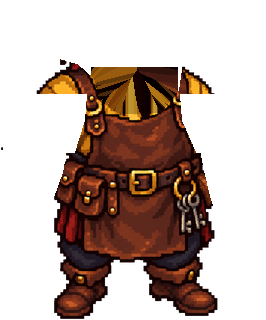
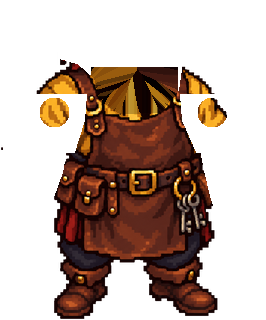
Fix torn shoulders, sanctuary threshold and hidden wall torches; rename BUGS.md to TASKS.md

Changed region(s): [[0.1504, 0.2812, 0.2707, 0.4062], [0.7218, 0.2812, 0.8722, 0.4062]]

diff --git a/live/dungeon.js b/live/dungeon.js
@@ -139,6 +139,13 @@
     for (const sc of secrets) for (const [x, y] of sc.front) used.add(key(x, y));
     const wx = (x) => x * TILE + TILE / 2, wy = (y) => y * TILE + TILE / 2 + 6;
     const enemies = [], chests = [], pots = [], traps = [], torches = [], decor = [], shrines = [], rugs = [];
+    // the top wall: what hangs on it (torches, sconces, banners, the shop sign) and the tall props standing against it (columns,
+    // statues, racks, shelves) must not overlap across their drawn widths, whichever came first: a prop would hide a sconce that
+    // works a secret, or a torch would stick out of a statue's head
+    const HANG = { wall: 14, banner: 18, shop_sign: 22 };
+    const hungAt = (px, ry, hw) => torches.some((t) => t.kind === 'wall' && !t.side && Math.abs(t.y - (ry * TILE - 26)) < TILE && Math.abs(t.x - px) < hw + HANG.wall)
+      || decor.some((d) => HANG[d.n] && Math.abs(d.y - ry * TILE) < 2 * TILE && Math.abs(d.x - px) < hw + HANG[d.n]);
+    const tallAt = (px, ry, hw) => decor.some((d) => d.solid && Math.abs(d.y - (ry * TILE + 22)) < 4 && Math.abs(d.x - px) < hw + half(d.n));
     // stairs / boss altar
     const sx = exitR.cx, sy = exitR.cy; for (let j = -1; j <= 1; j++) for (let i = -1; i <= 2; i++) used.add(key(sx + i, sy + j));
     const exit = { x: sx * TILE + TILE, y: sy * TILE + TILE / 2, tx: sx, ty: sy };
@@ -158,7 +165,7 @@
         for (let y = r.y; y < r.y + r.h; y++) for (let x = r.x; x < r.x + r.w; x++) if (at(x, y) === 1) { const v = lights.length ? reach(x, y) : 9; if (v > 1 && (!dark || v > dark[2])) dark = [x, y, v]; }
         if (!dark) break;
         const cand = [];
-        for (let x = r.x; x < r.x + r.w; x++) if (!at(x, r.y - 1) && at(x, r.y) === 1 && !doorway(x, r.y) && !torches.some((t) => t.kind === 'wall' && Math.abs(t.x - wx(x)) < 2 * TILE && Math.abs(t.y - r.y * TILE) < TILE) && !decor.some((d) => d.n === 'banner' && Math.abs(d.x - wx(x)) < 1.5 * TILE && Math.abs(d.y - r.y * TILE) < TILE))
+        for (let x = r.x; x < r.x + r.w; x++) if (!at(x, r.y - 1) && at(x, r.y) === 1 && !doorway(x, r.y) && !tallAt(wx(x), r.y, HANG.wall) && !torches.some((t) => t.kind === 'wall' && Math.abs(t.x - wx(x)) < 2 * TILE && Math.abs(t.y - r.y * TILE) < TILE) && !decor.some((d) => d.n === 'banner' && Math.abs(d.x - wx(x)) < 1.5 * TILE && Math.abs(d.y - r.y * TILE) < TILE))
           cand.push([x, r.y, 0, { x: wx(x), y: r.y * TILE - 26, kind: 'wall', r: r.id }]);
         for (let y = r.y + 1; y < r.y + r.h; y++) for (const [x, s] of [[r.x, -1], [r.x + r.w - 1, 1]]) if (!at(x + s, y) && free(x, y) && !doorway(x, y))
           cand.push([x, y, 0.5, { x: s < 0 ? x * TILE + 14 : (x + 1) * TILE - 14, y: y * TILE + 4, kind: 'wall', side: s, r: r.id, cell: [x, y] }]);
@@ -217,7 +224,7 @@
           take(lx, ly); shop.lanterns.push({ x: wx(lx), y: wy(ly) }); break; } }
       for (const L0 of shop.lanterns) decor.push({ x: L0.x, y: L0.y, n: 'shop_lantern', solid: 1, r: r.id });
       wall(-1, 'shop_armor'); wall(1, 'shop_weapons');
-      for (const x of [r.x + 1, r.x + r.w - 2]) if (!at(x, r.y - 1) && Math.abs(x - cx) > 3) torches.push({ x: x * TILE + TILE / 2, y: r.y * TILE - 26, kind: 'wall', r: r.id });
+      for (const x of [r.x + 1, r.x + r.w - 2]) if (!at(x, r.y - 1) && Math.abs(x - cx) > 3 && !tallAt(wx(x), r.y, HANG.wall)) torches.push({ x: x * TILE + TILE / 2, y: r.y * TILE - 26, kind: 'wall', r: r.id });
       along('shop_gold'); along('shop_crate'); lightRoom(r, shop.lanterns.map((q) => [q.x, q.y, LIGHT_R.wall]).concat([[shop.x, shop.y, LIGHT_R.fire]]), true); }
     if (!shop) return null;
     for (const r of rooms) { if (r.type === 'shop') continue;
@@ -242,7 +249,7 @@
       // the hoard's dressing: a statue each side of the rug against the back wall, vases about the room, now and then a small
       // pile of gold
       if (r.type === 'treasure') {
-        for (const side of [-1, 1]) for (const d of [3, 4, 2]) { const x = r.cx + side * d; if (x <= r.x || x >= r.x + r.w - 1 || at(x, r.y - 1) !== 0 || !free(x, r.y) || !free(x, r.y + 1) || !roomy(x, r.y, 'statue') || doorway(x, r.y)) continue;
+        for (const side of [-1, 1]) for (const d of [3, 4, 2]) { const x = r.cx + side * d; if (x <= r.x || x >= r.x + r.w - 1 || at(x, r.y - 1) !== 0 || !free(x, r.y) || !free(x, r.y + 1) || !roomy(x, r.y, 'statue') || doorway(x, r.y) || hungAt(wx(x), r.y, half('statue'))) continue;
           claim(x, r.y, 'statue'); used.add(key(x, r.y + 1)); decor.push({ x: wx(x), y: r.y * TILE + 22, n: 'statue', solid: 1, r: r.id }); break; }
         for (let i = 0, n = ri(2, 4); i < n; i++) { const kind = pick(['vase_a', 'vase_b', 'vase_c']), p = spot(r, 1, 0, kind); if (p) pots.push({ x: wx(p[0]), y: wy(p[1]), kind, hp: 1 }); }
         if (R() < 0.25) { const p = spot(r, 1, 0, 'goldpile'); if (p) pots.push({ x: wx(p[0]), y: wy(p[1]), kind: 'goldpile', hp: 1 }); } }
@@ -254,14 +261,14 @@
       // a heap of gold is a secret room's reward only (a rich one), never left lying in the open
       if (r.type === 'secret') { const p = spot(r, 1, 0, 'gold'); if (p) pots.push({ x: wx(p[0]), y: wy(p[1]), kind: 'gold', hp: 1, rich: 1 }); }
       // torches on the top wall face (cells above the room's first row that are rock), every 4–5 tiles
-      for (let x = r.x + 1 + ri(0, 1); x < r.x + r.w - 1; x += ri(3, 5)) if (!at(x, r.y - 1) && at(x, r.y)) torches.push({ x: x * TILE + TILE / 2, y: r.y * TILE - 26, kind: 'wall', r: r.id });
+      for (let x = r.x + 1 + ri(0, 1); x < r.x + r.w - 1; x += ri(3, 5)) if (!at(x, r.y - 1) && at(x, r.y) && !tallAt(wx(x), r.y, HANG.wall)) torches.push({ x: x * TILE + TILE / 2, y: r.y * TILE - 26, kind: 'wall', r: r.id });
       if (r.type !== 'start' && r.type !== 'secret' && R() < 0.5) { const p = spot(r, 1, 0, 'brazier'); if (p) torches.push({ x: wx(p[0]), y: wy(p[1]), kind: 'brazier', r: r.id }); }
       // decor
       for (let i = 0, n = ri(1, 3); i < n; i++) { const n2 = pick(['bones', 'candles', 'bones', 'table']), p = spot(r, 1, 0, n2 === 'table' && 'table'); if (p) decor.push(n2 === 'table' ? { x: wx(p[0]), y: wy(p[1]), n: n2, solid: 1, r: r.id } : { x: wx(p[0]), y: wy(p[1]), n: n2 }); }
-      for (let x = r.x + 2; x < r.x + r.w - 2; x += ri(5, 8)) if (!at(x, r.y - 1) && R() < 0.5 && !torches.some((t) => t.kind === 'wall' && !t.side && Math.abs(t.x - wx(x)) < 1.5 * TILE && Math.abs(t.y - r.y * TILE) < TILE)) decor.push({ x: x * TILE + TILE / 2, y: r.y * TILE - 2, n: 'banner', wall: 1 });
+      for (let x = r.x + 2; x < r.x + r.w - 2; x += ri(5, 8)) if (!at(x, r.y - 1) && R() < 0.5 && !tallAt(wx(x), r.y, HANG.banner) && !torches.some((t) => t.kind === 'wall' && !t.side && Math.abs(t.x - wx(x)) < 1.5 * TILE && Math.abs(t.y - r.y * TILE) < TILE)) decor.push({ x: x * TILE + TILE / 2, y: r.y * TILE - 2, n: 'banner', wall: 1 });
       // big biome props standing against the top wall (solid)
       for (let x = r.x + 1 + ri(0, 2); x < r.x + r.w - 1; x += ri(2, 5)) { const n = pick(D.BIOMES[zb].props);
-        if (R() < 0.3 || !free(x, r.y) || !free(x, r.y + 1) || !roomy(x, r.y, n) || !roomyCell(x, r.y + 1) || at(x, r.y - 1) !== 0 || doorway(x, r.y)) continue; claim(x, r.y, n); used.add(key(x, r.y + 1)); bulk.add(key(x, r.y + 1));
+        if (R() < 0.3 || !free(x, r.y) || !free(x, r.y + 1) || !roomy(x, r.y, n) || !roomyCell(x, r.y + 1) || at(x, r.y - 1) !== 0 || doorway(x, r.y) || hungAt(wx(x), r.y, half(n))) continue; claim(x, r.y, n); used.add(key(x, r.y + 1)); bulk.add(key(x, r.y + 1));
         decor.push({ x: wx(x), y: r.y * TILE + 22, n, solid: 1, r: r.id }); }
       for (let i = 0, n = ri(1, 3); i < n; i++) { const x = ri(r.x + 1, r.x + r.w - 2); if (!free(x, r.y) || at(x, r.y - 1) !== 0 || doorway(x, r.y)) continue; used.add(key(x, r.y)); decor.push({ x: wx(x) + ri(-6, 6), y: r.y * TILE + 20, n: 'candles' }); }
       if (r.zone === 'arcane') for (let i = 0; i < 2; i++) { const p = spot(r, 2, 0, 'crystal'); if (p) decor.push({ x: wx(p[0]), y: wy(p[1]), n: 'crystal', solid: 1, r: r.id }); }
@@ -274,8 +281,10 @@
     // mechanism, a secret falls back to a plain breakable wall
     const secCells = new Set(); for (const sc of secrets) { const r = rooms[sc.room]; for (const k of sc.hide) secCells.add(k); for (let y = r.y; y < r.y + r.h; y++) for (let x = r.x; x < r.x + r.w; x++) secCells.add(y * W + x); }
     secrets.forEach((q, i) => { const [fx, fy] = q.front[5], sh = rooms.find((o) => o.type === 'shop'), inR = (o, x, y) => x >= o.x - 1 && x <= o.x + o.w && y >= o.y - 1 && y <= o.y + o.h;
-      if (q.kind === 'banner' && torches.some((t) => t.kind === 'wall' && !t.side && Math.abs(t.x - q.x) < 2 * TILE && Math.abs(t.y - fy * TILE) < TILE)) q.kind = 'shelf';
-      if (q.kind === 'shelf' && !roomy(fx, fy, 'bookshelf', q.x)) q.kind = torches.some((t) => t.kind === 'wall' && !t.side && Math.abs(t.x - q.x) < 2 * TILE && Math.abs(t.y - fy * TILE) < TILE) ? 'crack' : 'banner';
+      const torchNear = torches.some((t) => t.kind === 'wall' && !t.side && Math.abs(t.x - q.x) < 2 * TILE && Math.abs(t.y - fy * TILE) < TILE);
+      if (q.kind === 'banner' && torchNear) q.kind = 'shelf';
+      if (q.kind === 'shelf' && (!roomy(fx, fy, 'bookshelf', q.x) || hungAt(q.x, fy, half('bookshelf')))) q.kind = torchNear ? 'crack' : 'banner';
+      if (q.kind === 'banner' && tallAt(q.x, fy, HANG.banner)) q.kind = 'crack';
       if (q.kind === 'banner') { for (let k = decor.length - 1; k >= 0; k--) if (decor[k].n === 'banner' && Math.abs(decor[k].x - q.x) < 3 * TILE && Math.abs(decor[k].y - (fy * TILE - 2)) < TILE) decor.splice(k, 1);
         decor.push({ x: q.x, y: fy * TILE - 2, n: 'banner', wall: 1, secret: i }); }
       if (q.kind === 'shelf') { claim(fx, fy, 'bookshelf', q.x); decor.push({ x: q.x, y: fy * TILE + 22, n: 'bookshelf', solid: 1, secret: i }); }

diff --git a/live/rigs.js b/live/rigs.js
@@ -1,1 +1,1 @@
-window.RIGS = {"hero": {"w": 188, "h": 360, "face": "right", "hipL": [49.54527412980827, 219.5958375757157], "kneeL": [49.234645451878436, 287.31288936441916], "ankleL": [55.44721901047508, 330.4902755966659], "footL": [55.44721901047508, 359.0681139662105], "toeL": [97.69271920893229, 359.0681139662105], "heelL": [34.945726267106146, 359.0681139662105], "shL": [48.02008732117279, 102.19233627875172], "elbowL": [45.84568657566396, 162.1436711192094], "handL": [50.349802405646535, 223.64814934931618], "hipR": [114.77729649507307, 219.5958375757157], "kneeR": [114.46666781714323, 287.31288936441916], "ankleR": [120.67924137573989, 330.4902755966659], "footR": [120.67924137573989, 359.0681139662105], "toeR": [162.9247415741971, 359.0681139662105], "heelR": [100.17774863237095, 359.0681139662105], "shR": [162.8967849931834, 102.19233627875172], "elbowR": [160.72238424767457, 162.1436711192094], "handR": [165.22650007765714, 223.64814934931618], "crotch": 220, "gap": 82.16128531244067, "top": [116.0, 1.0], "head": [113.89201570680628, 27.229712041884817], "parts": ["body", "farmL", "farmR", "footL", "footR", "shinL", "shinR", "thighL", "thighR", "uarmL", "uarmR"]}, "skeleton": {"w": 353, "h": 320, "crotch": 218, "gap": 231.0, "hipL": [144.5, 182.0], "hipR": [247.5, 186.0], "footL": [128.15058823529412, 298.0], "footR": [279.72265625, 316.0], "shL": [134.0, 72.0], "handL": [95.0, 176.0], "shR": [244.0, 92.0], "handR": [298.0, 160.0], "kneeL": [144.5, 220.0], "ankleL": [148.5, 275.0], "toeL": [152.0, 298.0], "heelL": [108.0, 298.0], "kneeR": [258.5, 249.0], "ankleR": [277.5, 293.0], "toeR": [301.0, 316.0], "heelR": [261.0, 316.0], "elbowL": [127.0, 133.0], "elbowR": [262.0, 124.0], "top": [175.0, 3.0], "head": [174.06973795435334, 25.272189349112427], "face": "right", "parts": ["body", "farmL", "farmR", "footL", "footR", "shinL", "shinR", "skull", "thighL", "thighR", "uarmL", "uarmR"], "bladeL": -2.314, "skull": [175.0, 90.0], "skullTip": [164.0, 3.0]}, "goblin": {"w": 387, "h": 320, "crotch": 225, "gap": 250.0, "hipL": [170.01882352941178, 192.0], "hipR": [270.2851851851852, 195.0], "footL": [151.32835820895522, 290.0], "footR": [303.6819852941176, 315.0], "shL": [152.0, 115.0], "handL": [95.0, 188.0], "shR": [268.0, 100.0], "handR": [345.0, 200.0], "kneeL": [164.5, 236.0], "ankleL": [160.5, 267.0], "toeL": [176.0, 290.0], "heelL": [122.0, 290.0], "kneeR": [287.5, 249.0], "ankleR": [303.5, 292.0], "toeR": [335.0, 315.0], "heelR": [272.0, 315.0], "elbowL": [112.0, 148.0], "elbowR": [308.0, 138.0], "top": [204.5, 4.0], "head": [200.5038215244784, 30.02726709357571], "face": "right", "parts": ["body", "earL", "earR", "farmL", "farmR", "footL", "footR", "shinL", "shinR", "thighL", "thighR", "uarmL", "uarmR"], "bladeL": -2.628, "earL": [161.0, 54.0], "earR": [257.0, 60.0], "earLTip": [97.0, 19.0], "earRTip": [315.0, 34.0]}, "brute": {"w": 287, "h": 320, "crotch": 225, "gap": 159.5, "hipL": [86.81859070464768, 175.0], "hipR": [195.0, 178.0], "footL": [63.099756690997566, 310.0], "footR": [235.1464882943144, 317.0], "shL": [60.0, 95.0], "handL": [28.0, 205.0], "shR": [228.0, 100.0], "handR": [250.0, 205.0], "kneeL": [86.5, 249.0], "ankleL": [74.5, 287.0], "toeL": [89.0, 310.0], "heelL": [29.0, 310.0], "kneeR": [212.3265306122449, 256.0], "ankleR": [233.0, 294.0], "toeR": [267.0, 317.0], "heelR": [209.0, 317.0], "elbowL": [35.0, 150.0], "elbowR": [255.0, 150.0], "top": [114.5, 2.0], "head": [134.06710796621775, 28.335996347865784], "face": "right", "parts": ["body", "farmL", "farmR", "footL", "footR", "shinL", "shinR", "thighL", "thighR", "uarmL", "uarmR"]}, "cultist": {"w": 248, "h": 320, "face": "right", "parts": ["body", "farmL", "uarmR", "farmR"], "shL": [92.0, 108.0], "handL": [50.0, 130.0], "shR": [170.0, 110.0], "elbowR": [200.0, 124.0], "handR": [226.0, 116.0], "top": [47.0, 2.0], "foot": 317.0, "gap": 113.6796989672013}, "spider": {"w": 487, "h": 720, "sockets": [[55, 399], [55, 494], [65, 569], [100, 641], [410, 399], [410, 494], [400, 569], [375, 641]], "legA": {"w": 295, "h": 351, "root": [30, 93], "end": [310, 68]}, "legB": {"w": 242, "h": 351, "root": [15, 68], "end": [225, 343]}}, "en_ghost": {"bones": [[190.0, 198.0], [266.0, 148.0]], "tips": [[203.0, 393.0], [328.0, 248.0]], "w": 361, "h": 409}, "merchant": {"w": 266, "h": 320, "face": "right", "parts": ["body", "uarmL", "farmL", "uarmR", "farmR", "head"], "shL": [52.0, 100.0], "elbowL": [30.0, 148.0], "handL": [26.0, 206.0], "shR": [214.0, 100.0], "elbowR": [236.0, 148.0], "handR": [240.0, 206.0], "neck": [134.0, 96.0], "top": [123.5, 1.0], "foot": 318.0, "gap": 128.20460920630435}};
+window.RIGS = {"hero": {"w": 188, "h": 360, "face": "right", "hipL": [49.54527412980827, 219.5958375757157], "kneeL": [49.234645451878436, 287.31288936441916], "ankleL": [55.44721901047508, 330.4902755966659], "footL": [55.44721901047508, 359.0681139662105], "toeL": [97.69271920893229, 359.0681139662105], "heelL": [34.945726267106146, 359.0681139662105], "shL": [48.02008732117279, 102.19233627875172], "elbowL": [45.84568657566396, 162.1436711192094], "handL": [50.349802405646535, 223.64814934931618], "hipR": [114.77729649507307, 219.5958375757157], "kneeR": [114.46666781714323, 287.31288936441916], "ankleR": [120.67924137573989, 330.4902755966659], "footR": [120.67924137573989, 359.0681139662105], "toeR": [162.9247415741971, 359.0681139662105], "heelR": [100.17774863237095, 359.0681139662105], "shR": [162.8967849931834, 102.19233627875172], "elbowR": [160.72238424767457, 162.1436711192094], "handR": [165.22650007765714, 223.64814934931618], "crotch": 220, "gap": 82.16128531244067, "top": [116.0, 1.0], "head": [113.89201570680628, 27.229712041884817], "parts": ["body", "farmL", "farmR", "footL", "footR", "shinL", "shinR", "thighL", "thighR", "uarmL", "uarmR"]}, "skeleton": {"w": 353, "h": 320, "crotch": 218, "gap": 231.0, "hipL": [144.5, 182.0], "hipR": [247.5, 186.0], "footL": [128.15058823529412, 298.0], "footR": [279.72265625, 316.0], "shL": [134.0, 72.0], "handL": [95.0, 176.0], "shR": [244.0, 92.0], "handR": [298.0, 160.0], "kneeL": [144.5, 220.0], "ankleL": [148.5, 275.0], "toeL": [152.0, 298.0], "heelL": [108.0, 298.0], "kneeR": [258.5, 249.0], "ankleR": [277.5, 293.0], "toeR": [301.0, 316.0], "heelR": [261.0, 316.0], "elbowL": [127.0, 133.0], "elbowR": [262.0, 124.0], "top": [175.0, 3.0], "head": [174.06973795435334, 25.272189349112427], "face": "right", "parts": ["body", "farmL", "farmR", "footL", "footR", "shinL", "shinR", "skull", "thighL", "thighR", "uarmL", "uarmR"], "bladeL": -2.314, "skull": [175.0, 90.0], "skullTip": [164.0, 3.0]}, "goblin": {"w": 387, "h": 320, "crotch": 225, "gap": 250.0, "hipL": [170.01882352941178, 192.0], "hipR": [270.2851851851852, 195.0], "footL": [151.32835820895522, 290.0], "footR": [303.6819852941176, 315.0], "shL": [152.0, 115.0], "handL": [95.0, 188.0], "shR": [268.0, 100.0], "handR": [345.0, 200.0], "kneeL": [164.5, 236.0], "ankleL": [160.5, 267.0], "toeL": [176.0, 290.0], "heelL": [122.0, 290.0], "kneeR": [287.5, 249.0], "ankleR": [303.5, 292.0], "toeR": [335.0, 315.0], "heelR": [272.0, 315.0], "elbowL": [112.0, 148.0], "elbowR": [308.0, 138.0], "top": [204.5, 4.0], "head": [200.5038215244784, 30.02726709357571], "face": "right", "parts": ["body", "earL", "earR", "farmL", "farmR", "footL", "footR", "shinL", "shinR", "thighL", "thighR", "uarmL", "uarmR"], "bladeL": -2.628, "earL": [161.0, 54.0], "earLTip": [97.0, 19.0], "earR": [257.0, 60.0], "earRTip": [315.0, 34.0]}, "brute": {"w": 287, "h": 320, "crotch": 225, "gap": 159.5, "hipL": [86.81859070464768, 175.0], "hipR": [195.0, 178.0], "footL": [63.099756690997566, 310.0], "footR": [235.1464882943144, 317.0], "shL": [60.0, 95.0], "handL": [28.0, 205.0], "shR": [228.0, 100.0], "handR": [250.0, 205.0], "kneeL": [86.5, 249.0], "ankleL": [74.5, 287.0], "toeL": [89.0, 310.0], "heelL": [29.0, 310.0], "kneeR": [212.3265306122449, 256.0], "ankleR": [233.0, 294.0], "toeR": [267.0, 317.0], "heelR": [209.0, 317.0], "elbowL": [35.0, 150.0], "elbowR": [255.0, 150.0], "top": [114.5, 2.0], "head": [134.06710796621775, 28.335996347865784], "face": "right", "parts": ["body", "farmL", "farmR", "footL", "footR", "shinL", "shinR", "thighL", "thighR", "uarmL", "uarmR"]}, "cultist": {"w": 248, "h": 320, "face": "right", "parts": ["body", "farmL", "uarmR", "farmR"], "shL": [92.0, 108.0], "handL": [50.0, 130.0], "shR": [170.0, 110.0], "elbowR": [200.0, 124.0], "handR": [226.0, 116.0], "top": [47.0, 2.0], "foot": 317.0, "gap": 113.6796989672013}, "spider": {"w": 487, "h": 720, "sockets": [[55, 399], [55, 494], [65, 569], [100, 641], [410, 399], [410, 494], [400, 569], [375, 641]], "legA": {"w": 295, "h": 351, "root": [30, 93], "end": [310, 68]}, "legB": {"w": 242, "h": 351, "root": [15, 68], "end": [225, 343]}}, "en_ghost": {"bones": [[190.0, 198.0], [266.0, 148.0]], "tips": [[203.0, 393.0], [328.0, 248.0]], "w": 361, "h": 409}, "merchant": {"w": 266, "h": 320, "face": "right", "parts": ["body", "uarmL", "farmL", "uarmR", "farmR", "head"], "shL": [54.0, 112.0], "elbowL": [30.0, 148.0], "handL": [26.0, 206.0], "shR": [212.0, 112.0], "elbowR": [236.0, 148.0], "handR": [240.0, 206.0], "neck": [134.0, 96.0], "top": [123.5, 1.0], "foot": 318.0, "gap": 128.20460920630435}};

diff --git a/live/sim.js b/live/sim.js
@@ -183,7 +183,9 @@
   const cell = (m, tx, ty) => (tx < 0 || ty < 0 || tx >= m.W || ty >= m.H ? 0 : m.cells[ty * m.W + tx]);
   const inRoom1 = (r, tx, ty) => tx >= r.x - 1 && tx <= r.x + r.w && ty >= r.y - 1 && ty <= r.y + r.h;
   // the sanctuary and the merchant's warded shop (plus one cell): monsters never set foot in them, their bolts die at the line
-  const inStart = (m, tx, ty) => inRoom1(m.rooms[m.start], tx, ty) || (!!m.shop && inRoom1(m.rooms[m.shop.room], tx, ty));
+  // the sanctuary is the safe room itself: a ring around it would take in half of a corridor that runs along its side
+  const inRoom0 = (r, tx, ty) => tx >= r.x && tx < r.x + r.w && ty >= r.y && ty < r.y + r.h;
+  const inStart = (m, tx, ty) => inRoom0(m.rooms[m.start], tx, ty) || (!!m.shop && inRoom1(m.rooms[m.shop.room], tx, ty));
   // lava (3) can be entered — it burns — by the hero and by a monster knocked into it; a monster never walks into it on its own
   const solidAt = (m, x, y, mon, lavaOk) => { const tx = Math.floor(x / TILE), ty = Math.floor(y / TILE), c = cell(m, tx, ty); return c === 3 ? !lavaOk : c !== 1 || (mon && inStart(m, tx, ty)); };
   const onLava = (m, o) => cell(m, Math.floor(o.x / TILE), Math.floor(o.y / TILE)) === 3;
@@ -937,6 +939,11 @@
         const w2 = (n) => (D.PROP_W[n] || 0) / 2;
         for (let i = 0; i < big.length; i++) for (let j = i + 1; j < big.length; j++) { const [ax, ay, an] = big[i], [bx, by, bn] = big[j]; if (an.startsWith('shop_') || bn.startsWith('shop_')) continue;
           if (Math.abs(Math.floor(ay / TILE) - Math.floor(by / TILE)) <= 1 && Math.abs(ax - bx) < w2(an) + w2(bn) + 4) out.push(`seed ${seed} f${f}: ${an} draws over ${bn} at ${Math.round(ax)},${Math.round(ay)}`); }
+        // nothing hung on a top wall (torch, sconce, banner, sign) hides behind a tall prop standing against that wall
+        const hung = m.torches.filter((t) => t.kind === 'wall' && !t.side).map((t) => [t.x, Math.round((t.y + 26) / TILE), 14, t.lever !== undefined ? 'sconce' : 'torch'])
+          .concat(m.decor.filter((d) => d.n === 'banner' || d.n === 'shop_sign').map((d) => [d.x, Math.round((d.y + (d.n === 'banner' ? 2 : 34)) / TILE), d.n === 'banner' ? 18 : 22, d.n]));
+        for (const d of m.decor) { if (!d.solid || (d.y - 22) % TILE) continue; const ry = (d.y - 22) / TILE;
+          for (const [hx, hy, hw, hn] of hung) if (hy === ry && Math.abs(hx - d.x) < hw + (D.PROP_W[d.n] || 53) / 2) out.push(`seed ${seed} f${f}: ${d.n} hides a ${hn} on the wall at ${Math.round(hx)},${hy * TILE}`); }
         for (const p of m.pots) if (p.kind === 'gold' && !(m.rooms[DG.roomAt(m, p.x, p.y)] || {}).type?.startsWith('secret')) out.push(`seed ${seed} f${f}: a heap of gold outside a secret room`);
         for (const r of m.rooms) { const n = m.chests.filter((c) => DG.roomAt(m, c.x, c.y) === r.id).length; if (n > Math.min(2, 1 + Math.floor(r.w * r.h / 30))) out.push(`seed ${seed} f${f}: ${n} chests in a ${r.w}×${r.h} room`); } }
       // a cobweb hangs only in a room's top corner, its spun corner against the two walls (mirrored on the right)

diff --git a/live/scene.js b/live/scene.js
@@ -56,8 +56,8 @@ void main(){ vec2 q = v_uv * 2.0 - 1.0; float r = length(q), a = atan(q.y, q.x);
   // the safe zone is the start room plus one cell (SIM's inStart): its edge is visible only where floor crosses it
   const SANCT = { key: null, edges: [] };
   const sanctEdges = (m) => { const key = m.seed + ':' + m.floor; if (SANCT.key === key) return SANCT.edges; SANCT.key = key; const out = SANCT.edges = [];
-    const r = m.rooms[m.start], inZ = (x, y) => x >= r.x - 1 && x <= r.x + r.w && y >= r.y - 1 && y <= r.y + r.h, T = TILE;
-    for (let y = r.y - 1; y <= r.y + r.h; y++) for (let x = r.x - 1; x <= r.x + r.w; x++) { if (SIM.cell(m, x, y) !== 1) continue;
+    const r = m.rooms[m.start], inZ = (x, y) => x >= r.x && x < r.x + r.w && y >= r.y && y < r.y + r.h, T = TILE;   // the room itself, as the sim's ward
+    for (let y = r.y; y < r.y + r.h; y++) for (let x = r.x; x < r.x + r.w; x++) { if (SIM.cell(m, x, y) !== 1) continue;
       if (!inZ(x + 1, y) && SIM.cell(m, x + 1, y) === 1) out.push([(x + 1) * T - 2, y * T, 4, T]); if (!inZ(x - 1, y) && SIM.cell(m, x - 1, y) === 1) out.push([x * T - 2, y * T, 4, T]);
       if (!inZ(x, y + 1) && SIM.cell(m, x, y + 1) === 1) out.push([x * T, (y + 1) * T - 2, T, 4]); if (!inZ(x, y - 1) && SIM.cell(m, x, y - 1) === 1) out.push([x * T, y * T - 2, T, 4]); }
     // one sill per doorway: merge edge cells that continue each other
@@ -833,6 +833,9 @@ void main(){ vec2 q = v_uv * 2.0 - 1.0; float r = length(q), a = atan(q.y, q.x);
       const h = R.hero; h.x = (r.x + r.w / 2) * TILE; h.y = (r.y + r.h - 1) * TILE; R.en = []; R.msg = null; R.seen = R.seen.map(() => 1); R.cam = [h.x - VW / 2, r.y * TILE - VH / 2 + 40]; return S; } };
     for (const [nm, tall] of [['wallprops', 0], ['wallprops_tall', 1]]) { const S = wallS(tall); if (S) states.push([nm, S]); }
     states.push(['sanct', play((S) => { const R = S.run, r = R.map.rooms[R.map.start], h = R.hero; R.en = []; R.msg = null; R.seen = R.seen.map(() => 1);
+      h.x = (r.x + 1.5) * TILE; h.y = (r.y + r.h - 1.5) * TILE; R.cam = [(r.x + r.w / 2) * TILE - VW / 2, (r.y + r.h / 2) * TILE - VH / 2]; })]);
+    // a corridor running along the safe room's side (seed 1, floor 1): the threshold follows the room's edge, not the corridor's middle
+    states.push(['sanct_side', play((S) => { S.run = SIM.newRun(S, 'campaign', 1); const R = S.run, r = R.map.rooms[R.map.start], h = R.hero; R.en = []; R.msg = null; R.seen = R.seen.map(() => 1);
       h.x = (r.x + 1.5) * TILE; h.y = (r.y + r.h - 1.5) * TILE; R.cam = [(r.x + r.w / 2) * TILE - VW / 2, (r.y + r.h / 2) * TILE - VH / 2]; })]);
     // the shop: the room from its doorway side, the hero at the counter (the prompt), and the trade screen at its worst
     const shopS = (prep) => play((S) => { const R = S.run, sh = R.map.shop, r = R.map.rooms[sh.room], h = R.hero; R.en = []; R.msg = null; R.seen = R.seen.map(() => 1); R.rseen = R.rseen.map(() => 1);

diff --git a/tools/jointgap.py b/tools/jointgap.py
@@ -1,0 +1,21 @@
+# a limb must not tear away from the body at its joint: turn the part about its pivot through its working range and check that
+# what is covered around the joint at rest (body ∪ part, within R rig px) stays covered (body ∪ turned part)
+#   python3 tools/jointgap.py NAME "PART:PIVOTKEY:R:A0,A1" ...   (angles in rig rad, positive clockwise; exit 2 on a gap)
+import json, re, sys; import numpy as np; from PIL import Image
+name = sys.argv[1]; RG = json.loads(re.sub(r'^window\.RIGS = |;\s*$', '', open('live/rigs.js').read().strip()))[name]
+op = lambda n: np.array(Image.open(f'art/gen/{name}__{n}.png').convert('RGBA'))[..., 3] > 60
+B, bad = op('body'), 0
+for arg in sys.argv[2:]:
+    part, key, R, rng = arg.split(':'); px, py = RG[key]; R = float(R); a0, a1 = map(float, rng.split(','))
+    P = op(part); yy, xx = np.mgrid[:B.shape[0], :B.shape[1]]; near = np.hypot(xx - px, yy - py) < R; want = near & (B | P)
+    worst, at = 0, 0
+    for a in np.linspace(a0, a1, 25):
+        # inverse map: a pixel is covered by the turned part if turning it back by −a lands on the part
+        c, s = np.cos(-a), np.sin(-a); sx = px + (xx - px) * c - (yy - py) * s; sy = py + (xx - px) * s + (yy - py) * c
+        ix, iy = np.round(sx).astype(int), np.round(sy).astype(int); ok = (ix >= 0) & (iy >= 0) & (ix < B.shape[1]) & (iy < B.shape[0])
+        T = np.zeros_like(B); T[ok] = P[iy[ok], ix[ok]]
+        gap = int((want & ~(B | T)).sum())
+        if gap > worst: worst, at = gap, a
+    lim = max(4, int(0.03 * want.sum())); fail = worst > lim; bad += fail
+    print(f"{'FAIL' if fail else 'ok  '} {name} {part}: worst gap {worst} px at {at:+.2f} rad (limit {lim}, joint area {int(want.sum())} px)")
+sys.exit(2 if bad else 0)

diff --git a/tools/jointcap.py b/tools/jointcap.py
@@ -1,0 +1,11 @@
+# paint a joint cap onto a rig's body: the part's own pixels within a radius of its pivot, so a limb raised far from its rest
+# turns over a round shoulder instead of opening a gap where the cut took the shoulder away
+#   python3 tools/jointcap.py NAME "PART:PIVOTKEY:R" ...   (e.g. "uarmR:shR:16", radius in rig px)
+import json, re, sys; import numpy as np; from PIL import Image
+name = sys.argv[1]; RG = json.loads(re.sub(r'^window\.RIGS = |;\s*$', '', open('live/rigs.js').read().strip()))[name]
+B = np.array(Image.open(f'art/gen/{name}__body.png').convert('RGBA'))
+for arg in sys.argv[2:]:
+    part, key, r = arg.split(':'); px, py = RG[key]; P = np.array(Image.open(f'art/gen/{name}__{part}.png').convert('RGBA'))
+    yy, xx = np.mgrid[:B.shape[0], :B.shape[1]]; m = (np.hypot(xx - px, yy - py) < float(r)) & (P[..., 3] > 60)
+    B[m] = P[m]; print(part, 'cap', int(m.sum()), 'px at', key, (px, py))
+Image.fromarray(B).save(f'art/gen/{name}__body.png')

diff --git a/tools/herofix.py b/tools/herofix.py
@@ -1,4 +1,4 @@
-# post-fixes for hero rig parts (BUGS 24, 30); always rebuilds from art/old/herofix/ so it can be re-run
+# post-fixes for hero rig parts (TASKS 24, 30); always rebuilds from art/old/herofix/ so it can be re-run
 import numpy as np; from PIL import Image; from scipy import ndimage as nd
 SRC, DST = 'art/old/herofix', 'art/gen'
 load = lambda n: np.array(Image.open(f'{SRC}/{n}.png').convert('RGBA')).astype(float)

diff --git a/tools/cleanfix.py b/tools/cleanfix.py
@@ -1,4 +1,4 @@
-# post-fixes for BUGS 32; rebuilds from art/old/cleanfix/ so it can be re-run
+# post-fixes for TASKS 32; rebuilds from art/old/cleanfix/ so it can be re-run
 import numpy as np; from PIL import Image; from scipy import ndimage as nd
 SRC, DST = 'art/old/cleanfix', 'art/gen'
 load = lambda n: np.array(Image.open(f'{SRC}/{n}.png').convert('RGBA')).astype(float)

diff --git a/TASKS.md b/TASKS.md
@@ -1,6 +1,6 @@
-# Баги и замечания — «Глубины Крипты»
+# Задачи — «Глубины Крипты»
 
-Статусы: ✅ исправлено · ⏳ открыто · 🔁 частично.
+Статусы: ✅ сделано · ⏳ открыто · 🔁 частично.
 Источник: **[И]** — нашёл игрок; **[А]** ассеты, **[С]** сверка с концептом, **[Г]** геймплей, **[М]** анимация — независимые критики, раунд 1 (полные отчёты в `study/critique/*_r1.md`).
 
 ## Найдено игроком
@@ -126,6 +126,18 @@
 99. ✅ **[И]** Снова лут не отображается: подсветка показывает предмет (зелье здоровья) рядом с открытым сундуком, а на экране его нет. → Два случая. (1) Правило 94 считало закрытыми только клетку пропа и ряд за ним, а не настоящий спрайт: открытый сундук хорошего тира шириной ~61 px закрывал предмет на соседней клетке. Теперь у каждого твёрдого пропа прямоугольник спрайта по его ширине и высоте (`PROP_W`, `PROP_H`), и предмет, лежащий за ним в этом прямоугольнике, перепрыгивает (`propBoxes`, `behindProp`); уже лежащие в сохранении предметы проверяются заново (`DROP_REST`). В тесной тайной комнате, где своих клеток не хватает, предмет ложится рядом с другим, но на виду. (2) Предметы из сундука ложились друг на друга (плащ закрывал зелье) — теперь иконки держатся порознь, с учётом места приземления летящих. Плюс у каждого предмета на полу свой маленький белый свет: в зелёном свете склепа красное зелье читалось бурым пятном. Новый инструмент `tools/lootvis.mjs`: на 24 этажах открывает все тайники и сундуки и рендерит каждый предмет с иконкой и без — 358 из 358 видны (без исправления — 15 спрятанных).
 
 104. ⏳ **[И]** Соседнюю комнату видно сквозь стену, хотя прохода туда ещё не было. На скриншоте игрока (этаж 2, подземелье): герой в маленькой комнате, а комната слева (скелет, стойка с оружием, бочка) и полки лавки внизу кадра нарисованы с полом, пропсами и монстром, хотя на миникарте они ещё не открыты. Причина: туман войны открывает прямоугольник 17×13 клеток вокруг героя без проверки прямой видимости (`sim.js`, `R.seen` в шаге героя). Нужно: комната открывается, только когда в неё есть видимость через проём (или она уже исследована); за глухой стеной — темнота. QA: герой у тонкой стены между двумя комнатами без прохода.
+
+105. ⏳ **[И]** Переработать лаву: сейчас она выглядит как простой квадрат с глючной текстурой. Нужно правильно нарисовать переход с поверхности (пола) в лаву: берег — оплавленный тёмный камень с остывающей коркой и светящейся кромкой, не прямоугольная граница по клеткам; текстура самой лавы без артефактов и швов, с медленным течением. QA: стык лавы с полом (прямой край, внешний и внутренний углы), крупный план поверхности.
+
+106. ⏳ **[И]** Добавить воду: лужи, ручьи или затопленные участки в комнатах, со своим берегом (переход с пола в воду, как у лавы в 105), отражением света факелов и рябью. Решить, как вода влияет на игру (проходима ли, замедляет ли, гасит ли горение), и где она появляется в генераторе этажей.
+
+107. ✅ **[И]** Торговец, махая рукой в приветствии, отрывает руку от тела. → `robecut` вырезал из тела всё плечо, а рука вращалась вокруг точки на верхнем краю рукава: при подъёме на 1,9 рад внутренний край рукава уходил от тела, и между ними открывалась щель. Центры плеч перенесены в сустав (`sh` в `tools/rig_merchant.sh`), на теле оставлена круглая «шапка» плеча из пикселей самого рукава (`tools/jointcap.py`), рука поворачивается поверх неё. Новая проверка `tools/jointgap.py`: деталь поворачивается вокруг сустава во всём рабочем диапазоне (диапазоны сняты с QA-переходов), и всё, что было закрыто в радиусе 12 px вокруг сустава, должно оставаться закрытым; у старого рига торговца — щель 128 px, у нового — 0. Та же щель нашлась у скелета (рука с оружием в замахе, 142 px), гоблина (37 px) и культиста (30 px) — им добавлены такие же «шапки»; проверка стоит в конце `rig_merchant.sh`, `rig_skeleton.sh`, `rig_goblin.sh`, `rig_cultist.sh`.
+
+108. ✅ **[И]** Непонятная светлая полоса с загибом посреди коридора у безопасной комнаты. → Это порог святилища (`sanct_sill`), он рисуется по границе оберега. Оберег был комнатой плюс кольцо в одну клетку (чтобы проём в стене считался внутри), а коридоры шириной 2 клетки иногда идут вплотную вдоль комнаты по линии её стены: первая полоса коридора попадала в кольцо, и граница — с порогом — шла посреди коридора, с загибом на углу. Так было на 189 из 1800 этажей (сиды 1–300). Теперь оберег святилища — сама комната (`sim.js: inStart`, `scene.js: sanctEdges`): порог стоит в проёме или ровно вдоль открытой в коридор стороны комнаты. Монстры по-прежнему не заходят в комнату, их снаряды гаснут на её краю; коридор вдоль комнаты больше не урезается для их путей. Лавка не тронута. `selfCheck` и демо ok. QA: `sanct_side` (сид 1, этаж 1).
+
+109. ✅ **[И]** Настенный факел закрыт колонной (на скриншоте игрока — бра, открывающее тайник, за колонной его труднее заметить); таких наложений быть не должно вообще. → Настенные предметы (факелы, бра, флаги, вывеска лавки) и высокие пропсы у той же верхней стены (колонны, статуи, стойки, клетки, шкафы, стойки лавки) расставлялись без проверки друг против друга: флаги сторонились факелов, а колонны, статуи сокровищницы, книжный шкаф-тайник, факелы досветки (90) и факелы лавки — нет. Теперь правило общее для обоих порядков (`dungeon.js: hungAt`, `tallAt`): по ширине спрайта (`PROP_W` пропа + полширины настенного предмета) они не пересекаются, кто бы ни встал первым; флаг-тайник за высоким пропом и шкаф-тайник под факелом становятся простой стеной. Бра-рычаг выбирается после расстановки, поэтому спрятанным не бывает. `selfCheck`: ничто на верхней стене не прячется за пропом (старый генератор — 291 нарушение на проверяемых этажах, новый — 0). Карты сидов изменились; демо, свет в каждой комнате, `lootvis` (354 предмета) и QA ok.
+
+110. ⏳ **[И]** Расставить предметы в комнатах по-нормальному: сейчас в комнатах полный хаос, хочется аккуратных комнат. Предметы ставятся каждый сам по себе случайными точками (`spot`), без замысла комнаты. Нужно: у каждой комнаты свой план по типу (склад, караулка, склеп, библиотека, оружейная, кабинет…) — крупное у стен, симметрия или ритм вдоль задней стены (пары статуй, ряды бочек, стеллажи по одной линии), группы, которые читаются вместе (стол со стульями и свечой, верстак с инструментами, ящики штабелем в углу), свободный центр и проходы между входами; мелочь (кости, свечи, мусор) — у стен и в углах, а не россыпью по полу. Связано с 21, 95, 109.
 
 ## Улучшения (на потом)
 

diff --git a/README.md b/README.md
@@ -59,7 +59,7 @@ node tools/playtest.cjs 1   # бот проходит всю кампанию с
 | `art/gen/` | исходный арт, сгенерированный ИИ; промпты в `art/prompts/`, стиль в `art/style_bible.txt` |
 | `study/` | разбор концепта: палитра, значения, тайлы |
 | `tools/` | скрипты для нарезки ригов, правки спрайтов и проверок |
-| `BUGS.md` | баги и замечания со статусами |
+| `TASKS.md` | задачи: баги, замечания и улучшения со статусами |
 
 ## Концепт
 
